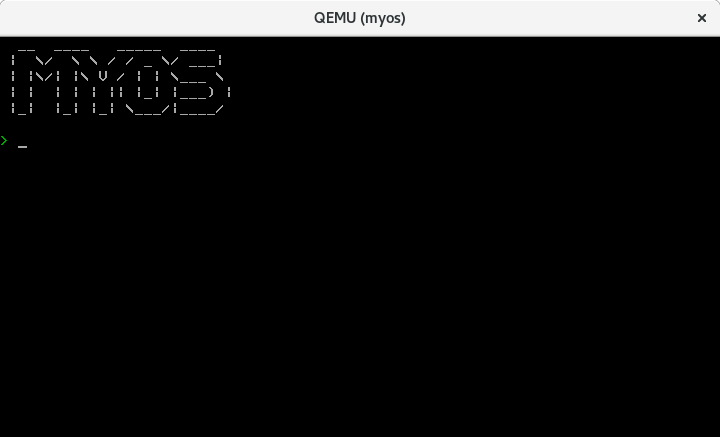
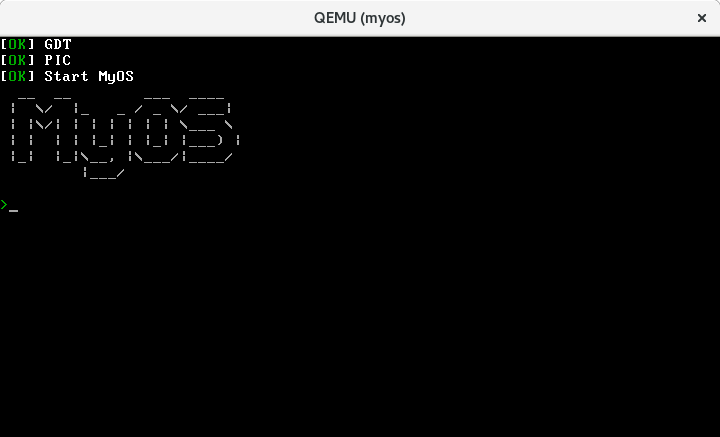
fix binary arrangement

diff --git a/kernel/console.c b/kernel/console.c
@@ -50,17 +50,22 @@ void put_str(char *str, unsigned short color) {
 }
 
 void init_console() {
-  move_cursor(0, 0);
-  char osname[6][34] = {
-    "  __  ____   _____  ____       \n",
-    " |  \\/  \\ \\ / / _ \\/ ___|  \n",
-    " | |\\/| |\\ V / | | \\___ \\  \n",
-    " | |  | | | || |_| |___) |     \n",
-    " |_|  |_| |_| \\___/|____/   \n\n"
-  };
+  move_cursor(0, 3);
+  char *os =
+    "  __  __        ___  ____     \n"
+    " |  \\/  |_   _ / _ \\/ ___|  \n"
+    " | |\\/| | | | | | | \\___ \\ \n"
+    " | |  | | |_| | |_| |___) |   \n"
+    " |_|  |_|\\__, |\\___/|____/  \n"
+    "         |___/              \n\n";
 
-  int i;
-  for (i = 0; i < 6; ++i) {
-    put_str(osname[i], GRAY);
-  }
+  put_str(os, GRAY);
+}
+
+void show_status(char *status, char *msg) {
+  put_str("[", WHITE);
+  put_str(status, GREEN);
+  put_str("] ", WHITE);
+  put_str(msg, WHITE);
+  put_str("\n", WHITE);
 }

diff --git a/kernel/dsctbl.c b/kernel/dsctbl.c
@@ -12,8 +12,8 @@ void init_gdtidt() {
   // メモリ全体
   set_segmdesc(gdt + 1, 0xffffffff, 0x00000000, AR_DATA32_RW);
   // カーネル
-  //set_segmdesc(gdt + 2, KRN_LIMIT, KRN_ADDR, AR_CODE32_ER);
-  set_segmdesc(gdt + 2, 0xffffffff, 0x00000000, AR_CODE32_ER);
+  set_segmdesc(gdt + 2, KRN_LIMIT, KRN_ADDR, AR_CODE32_ER);
+  //set_segmdesc(gdt + 2, 0xffffffff, 0x00000000, AR_CODE32_ER);
   load_gdtr(GDT_LIMIT, GDT_ADDR);
 
   for (i = 0; i <= IDT_LIMIT / 8; i++) {
@@ -32,8 +32,8 @@ void init_gdtidt() {
 
 void set_segmdesc(struct SEGMENT_DESCRIPTOR *sd, unsigned int limit, int base, int ar) {
   if (limit > 0xfffff) {
-    ar |= 0x8000;
-    limit /= 0x1000;
+    ar |= 0x8000;    // Gビットフラグを1すると
+    limit /= 0x1000; // バイト単位 -> ページ単位に変更(4GBになる)
   }
   sd->limit_low = limit & 0xffff;
   sd->base_low = base & 0xffff;

diff --git a/kernel/main.c b/kernel/main.c
@@ -19,11 +19,14 @@ extern struct Queue key_queue;
 void main(void) {
   struct BOOTINFO *binfo = (struct BOOTINFO *)ADR_BOOTINFO;
   init_gdtidt();
+  show_status("OK", "GDT");
   init_pic();
+  show_status("OK", "PIC");
   io_sti();
-  init_console();
-  char prompt[] = ">";
+  char *prompt = ">";
   outb_p(PIC0_IMR, 0xf9);
+  show_status("OK", "Start MyOS");
+  init_console();
   while(1) {
     put_str(prompt, GREEN);
     io_cli();

diff --git a/include/console.h b/include/console.h
@@ -9,5 +9,6 @@ void put_char_pos(char c, unsigned char x, unsigned char y, unsigned short color
 void put_char(char c, unsigned short color);
 void put_str(char *str, unsigned short color);
 void init_console();
+void show_status(char *status, char *msg);
 
 #endif
